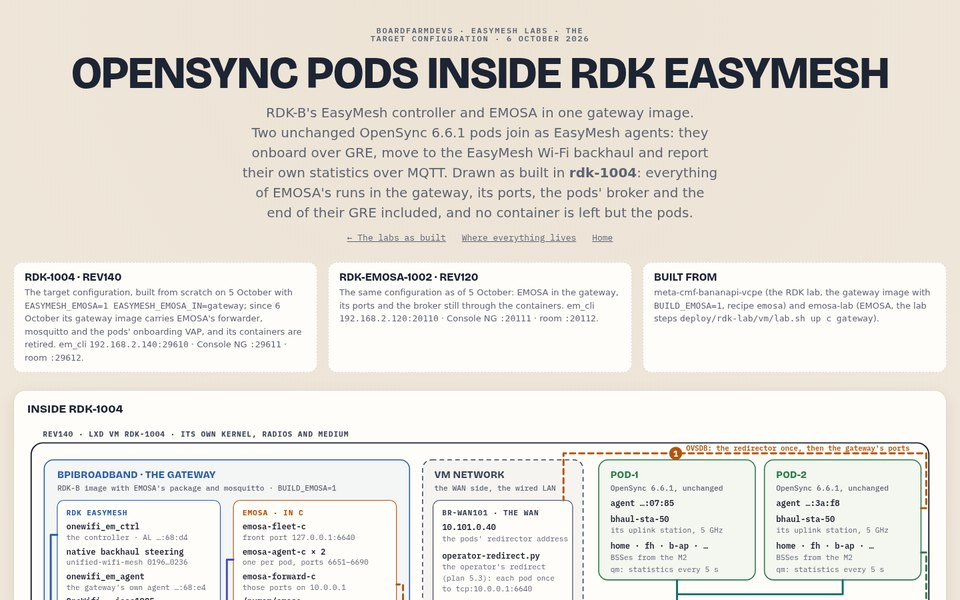
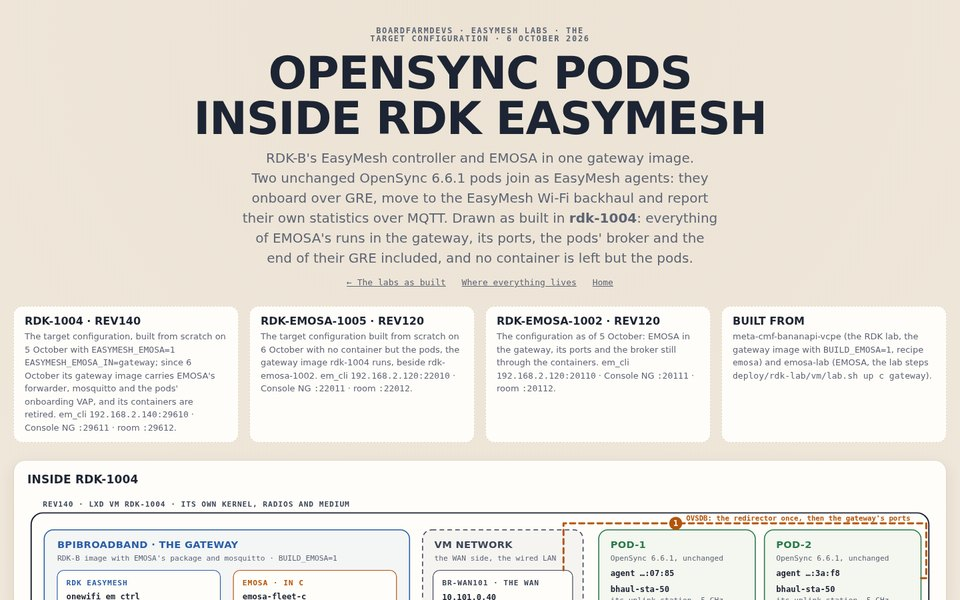
Poster rdk-emosa: em_ctrl's journal under its cap, the pods' stations steering-disallowed, rdk-emosa-1005 in the target configuration; both labs' gateway image recorded
The timeline gains the pods' steering-disallowed lists (emosa-lab 27c1e58),
em_ctrl's journal under its cap and the wired extender's renew loop ended
(unified-wifi-mesh 0237 to 0240), and rdk-emosa-1005, built from scratch on
rev120 with no container but the pods; its host card and ports. Open: the
wired extender's outage room at its 5 s boundary on the shared host.
manifest: emosa-lab 9443dd5, meta-cmf ee56ed5; both gateways run
X86EMLTRBPIBB_rdk-next_20261006153516 (meta-cmf dad7504).

Changed region(s): [[0.0, 0.09, 1.0, 1.0], [0.375, 0.03, 0.4688, 0.06], [0.5, 0.03, 0.5625, 0.06]]

diff --git a/site/posters/rdk-emosa.html b/site/posters/rdk-emosa.html
@@ -31,7 +31,11 @@
     EMOSA's forwarder, mosquitto and the pods' onboarding VAP, and its containers are retired.
     em_cli <code>192.168.2.140:29610</code> · Console NG
     <code>:29611</code> · room <code>:29612</code>.</p></div>
-    <div class="host"><h3>rdk-emosa-1002 · rev120</h3><p>The same configuration as of 5 October:
+    <div class="host"><h3>rdk-emosa-1005 · rev120</h3><p>The target configuration built from scratch on
+    6 October with no container but the pods, the gateway image rdk-1004 runs, beside
+    rdk-emosa-1002. em_cli <code>192.168.2.120:22010</code> · Console NG <code>:22011</code> ·
+    room <code>:22012</code>.</p></div>
+    <div class="host"><h3>rdk-emosa-1002 · rev120</h3><p>The configuration as of 5 October:
     EMOSA in the gateway, its ports and the broker still through the containers. em_cli
     <code>192.168.2.120:20110</code> · Console NG <code>:20111</code> · room <code>:20112</code>.</p></div>
     <div class="host"><h3>Built from</h3><p>meta-cmf-bananapi-vcpe (the RDK lab, the gateway image with
@@ -61,7 +65,7 @@
         <text class="b" x="66" y="163">onewifi_em_ctrl</text>
         <text class="t" x="66" y="179">the controller · AL …:68:d4</text>
         <text class="b" x="66" y="201">native backhaul steering</text>
-        <text class="t" x="66" y="217">unified-wifi-mesh 0196…0236</text>
+        <text class="t" x="66" y="217">unified-wifi-mesh 0196…0239</text>
         <text class="b" x="66" y="239">onewifi_em_agent</text>
         <text class="t" x="66" y="255">the gateway's own agent …:68:e4</text>
         <text class="b" x="66" y="277">OneWifi · ieee1905</text>
@@ -318,6 +322,7 @@
             <tr><td><code>127.0.0.1:1883</code> in the gateway</td><td>the agents' MQTT</td><td>the same mosquitto, plain</td></tr>
             <tr><td><code>169.254.2.1/25</code></td><td>the gateway's GTP: DHCP, the GRE remote</td><td><code>brpodbh</code>, with <code>wifi1.4</code></td></tr>
             <tr><td><code>192.168.2.140:29610/1/2</code></td><td>em_cli · Console NG · the room</td><td>rdk-1004</td></tr>
+            <tr><td><code>192.168.2.120:22010/1/2</code></td><td>the same</td><td>rdk-emosa-1005</td></tr>
             <tr><td><code>192.168.2.120:20110/1/2</code></td><td>the same</td><td>rdk-emosa-1002</td></tr>
           </tbody>
         </table>
@@ -363,6 +368,10 @@
         <div class="result rdk"><b>8</b><span>agents in RDK's controller, the pods' two included</span></div>
       </div>
       <ul class="timeline">
+        <li class="umbrella">A second lab in the target configuration (6 October)<small>rdk-emosa-1005 on rev120, built from scratch with no container but the pods: two findings for a fresh gateway fixed on the way (emosa-lab cdfaddc); its suite 26 of 27 and the four geometry rooms</small></li>
+        <li class="rdk">em_ctrl's journal under its cap (6 October)<small>its per-message work and the data model's registration to em's debug channel (unified-wifi-mesh 0237, 0238, 0240): through the catalog 103 lines per 30 s on average, 619 at most, of 1000, where it wrote up to 8,500; the M2 line no longer prints passphrases</small></li>
+        <li class="rdk">The wired extender's radios renew once, not for ever (6 October)<small>a radio renewed alone waited at the Channel Preference Query and the policy request for siblings already configured, refusing candidate queries; now, as at the steps before, it does not (0239)</small></li>
+        <li class="emosa">The pods' stations steering-disallowed on every agent (6 October)<small>EMOSA lists each pod's station; the lab puts them in every agent's local and BTM lists through em_cli's policy API; on RDK the controller does not see them on the onboarding SSID at all</small></li>
         <li class="umbrella">No container but the pods (6 October)<small>emosa and em-gtp deleted on rdk-1004: everything of EMOSA's runs in the gateway from its image; a fresh lab never makes them</small></li>
         <li class="medium">The pods' GRE ends in the gateway (6 October)<small>their onboarding SSID a VAP of the gateway's own (wifi1.4), kept out of EasyMesh (libwebconfig 0014: as a reported BSS its SSID failed every Topology Response); emosa-gtp on its bridge; RDK's dnsmasq binds per interface; a pod's bootstrap through it in 22 s</small></li>
         <li class="emosa">EMOSA's ports on the gateway's LAN (6 October)<small>its own forwarder, emosa-forward-c, in place of the lab's proxies; the pods' redirector answered by an operator's redirect on the WAN side</small></li>
@@ -378,7 +387,8 @@
       <h3>Open</h3>
       <ul class="timeline">
         <li class="open">No native backhaul steering below the wired extender<small>the controller's model has no parent for a wired agent, so pods on its backhaul BSS are not measured</small></li>
-        <li class="open">em_ctrl's log is partial<small>the image caps it at 1000 journal lines per 30 s and through a room catalog it writes 2,500 to 8,500, mostly traces of per-message work; the journal is volatile, 16 MB, about 15 minutes: long runs keep their own copy</small></li>
+        <li class="open">The wired extender's outage room at its 5 s boundary<small>home-a-wired-extender-loss-recovery wants the extender's clients gone 5 s into its outage; on rdk-emosa-1005, on a host running two lab VMs, one sample at 25 s still shows one in most runs (3 of 7 passed); on rdk-1004 it passed every time on 6 October</small></li>
+        <li class="open">Why the wired extender's radio is renewed alone<small>its em_config times out now and then (seen on two labs, 6 October); 0239 ends the loop that followed, the cause is not known. The gateway's journal is volatile, 16 MB, about 15 minutes: long runs keep their own copy</small></li>
       </ul>
     </div>
   </section>
